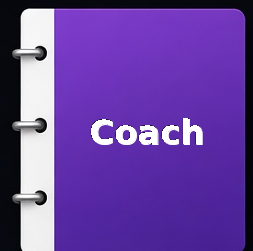
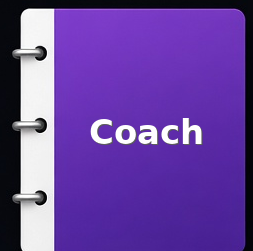
Apply the approved white-title binder covers.
The role picker uses those PNGs as the clickable options. Coach’s line is now “Lesson plan and daily videos with uploads.” Program Director and Instructor show a placeholder until the owner writes those lines.

Changed region(s): [[0.3597, 0.4741, 0.8024, 0.5857]]

diff --git a/src/lib/instructorSeats.ts b/src/lib/instructorSeats.ts
@@ -88,7 +88,7 @@ export const INSTRUCTOR_PRESETS: readonly InstructorPreset[] = [
     id: 'coach',
     label: 'Coach',
     plan: 'Coach Unlimited',
-    detail: 'Lesson plan and daily videos',
+    detail: 'Lesson plan and daily videos with uploads',
     permissions: {
       galleryUpload: false,
       dailyLessonPlanAccess: true,
@@ -104,7 +104,7 @@ export const INSTRUCTOR_PRESETS: readonly InstructorPreset[] = [
     id: 'program-director',
     label: 'Program Director',
     plan: 'Coach Unlimited + Pro',
-    detail: 'Events, Pro Shop, and gallery',
+    detail: '—',
     permissions: {
       galleryUpload: true,
       dailyLessonPlanAccess: true,
@@ -120,7 +120,7 @@ export const INSTRUCTOR_PRESETS: readonly InstructorPreset[] = [
     id: 'instructors',
     label: 'Instructor',
     plan: 'Coach Unlimited + Pro',
-    detail: 'Everything on',
+    detail: '—',
     permissions: {
       galleryUpload: true,
       dailyLessonPlanAccess: true,

diff --git a/src/components/InstructorInvitePanel.tsx b/src/components/InstructorInvitePanel.tsx
@@ -352,7 +352,7 @@ function BinderIcon({ presetId, alt = '' }: { presetId: InstructorPresetId | nul
   const art = BINDER_ART[presetId];
   return (
     <span className={`role-binder role-binder--${presetId}`}>
-      <img src={`${art.src}?v=white2`} alt={alt} draggable={false} width={art.width} height={art.height} />
+      <img src={`${art.src}?v=approved`} alt={alt} draggable={false} width={art.width} height={art.height} />
     </span>
   );
 }
